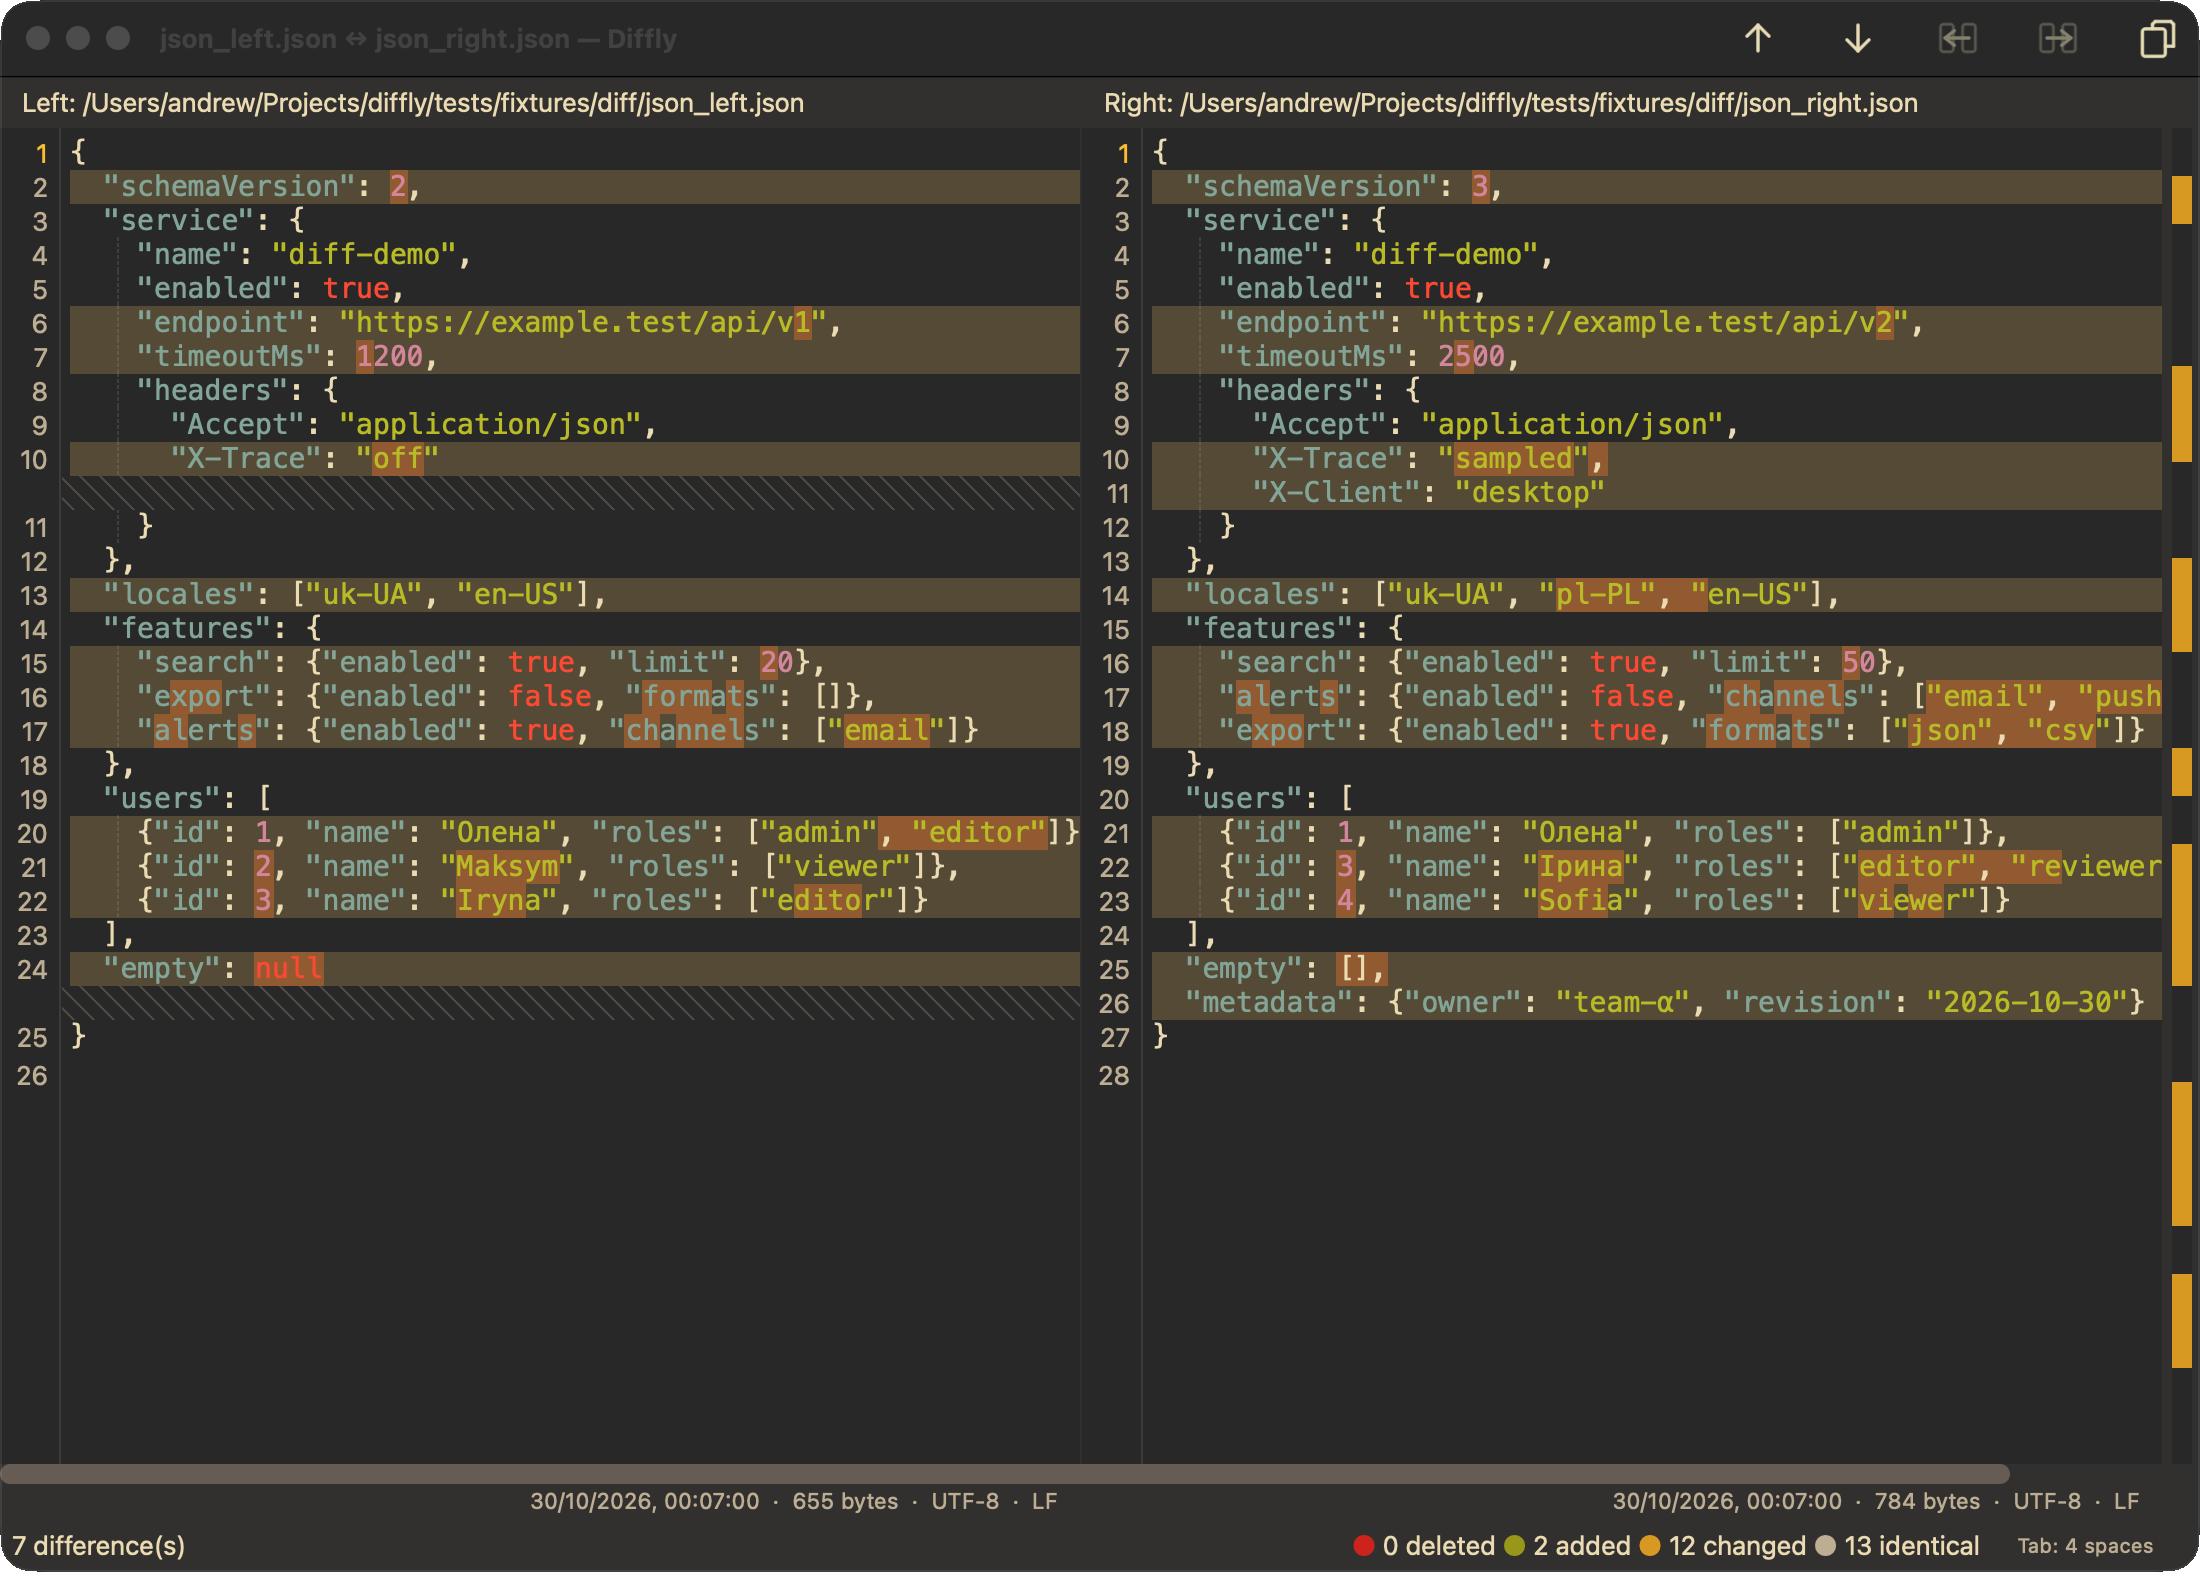
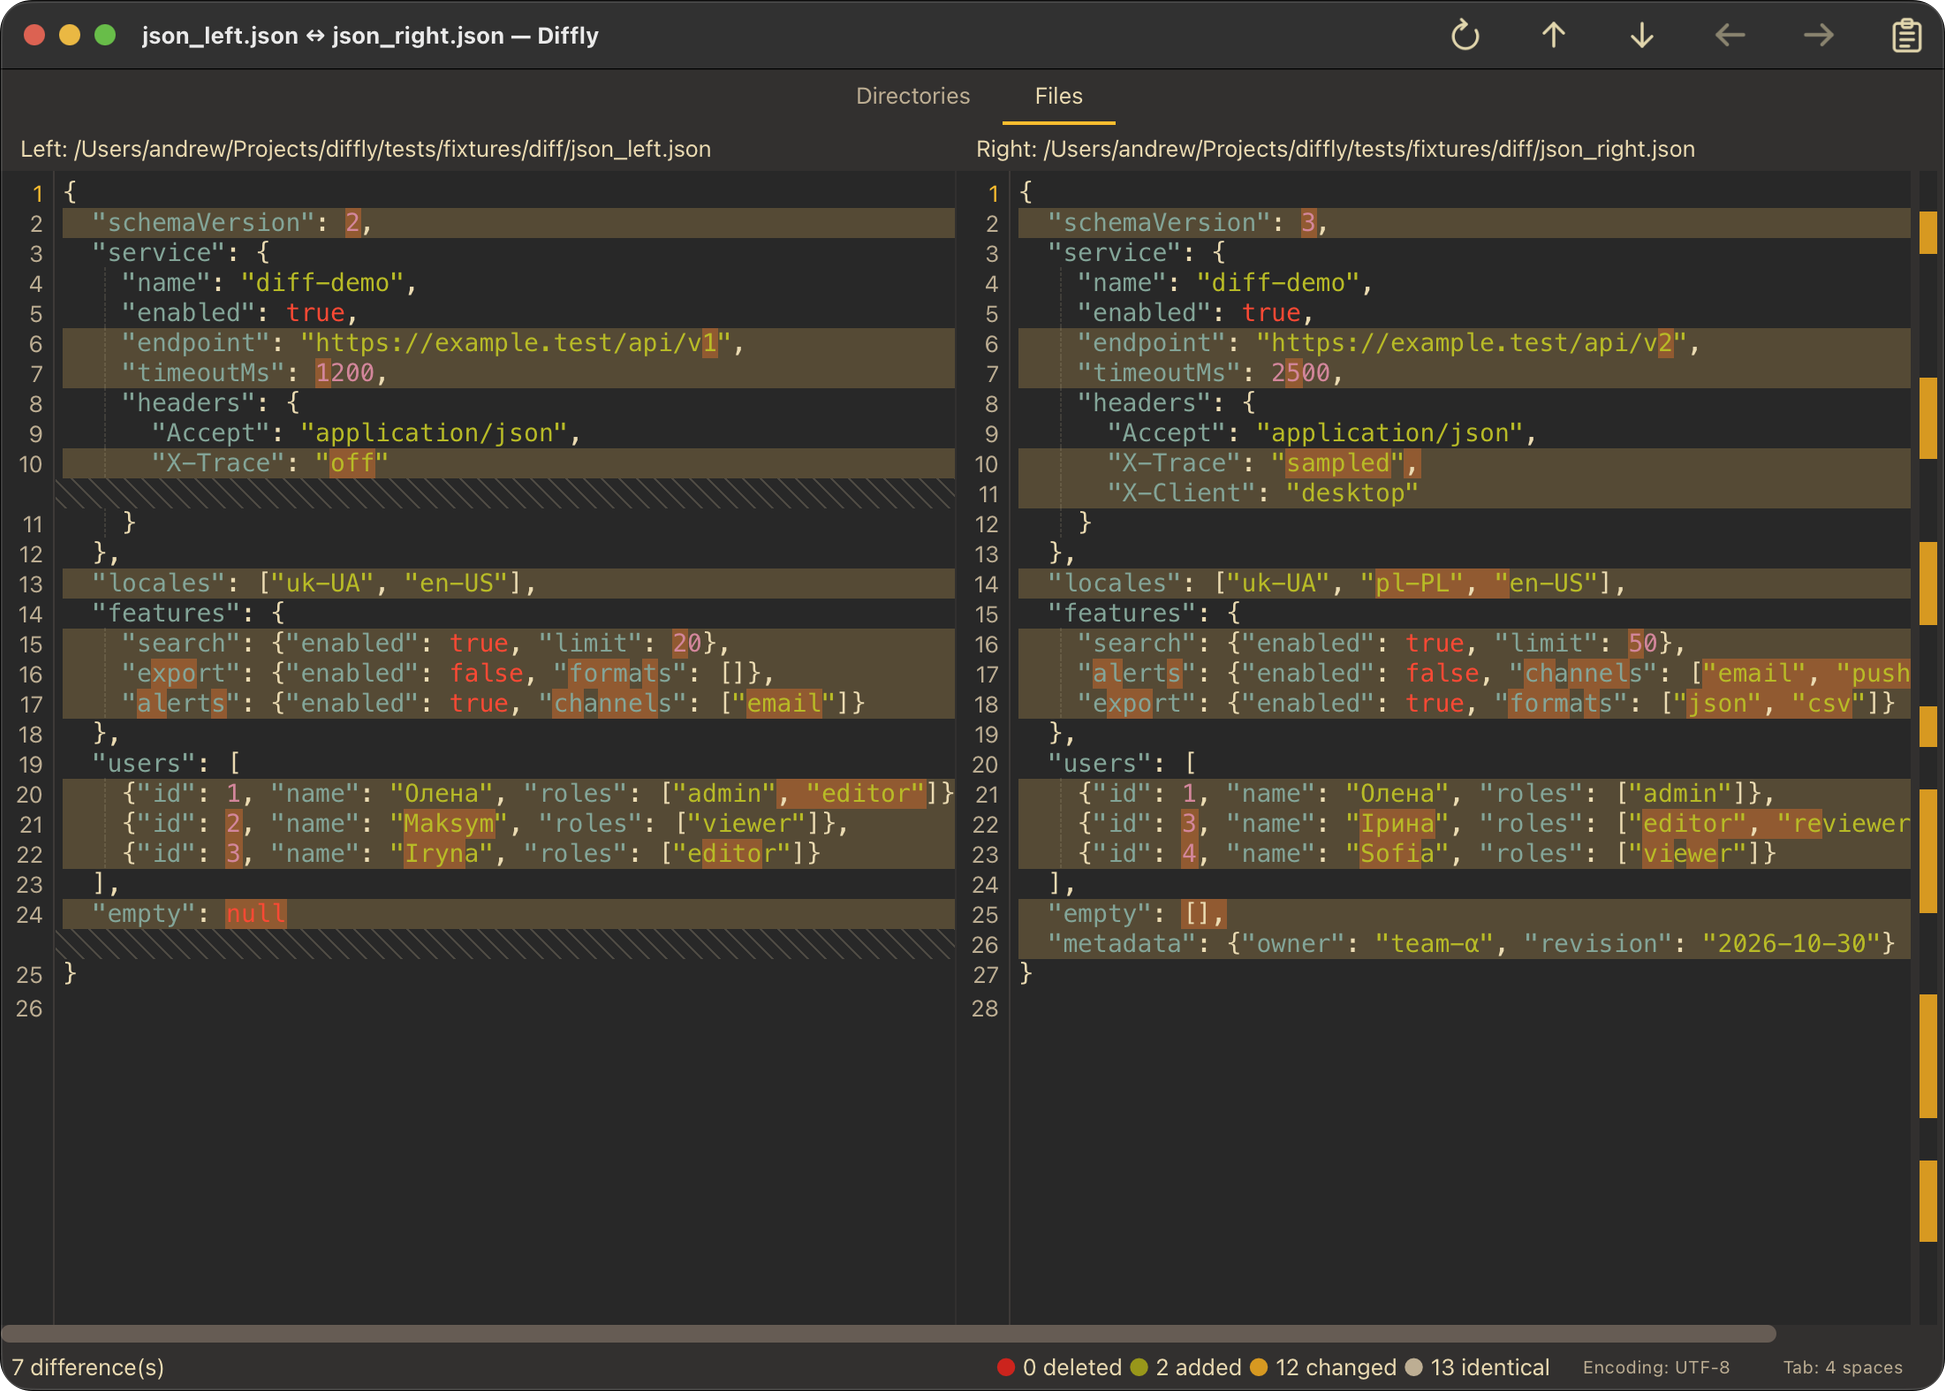
Update README screenshots for JSON and directory comparison

diff --git a/README.md b/README.md
@@ -1,8 +1,12 @@
 # Diffly
 
-<img src="docs/images/diffly-json.png" alt="Diffly comparing two JSON files" width="600">
+<a href="docs/images/diffly-json.png"><img src="docs/images/diffly-json.png" alt="Diffly comparing two JSON files" width="600"></a>
 
-Screenshot using the [JSON example files](tests/fixtures/diff/README.md).
+Comparing the [JSON example files](tests/fixtures/diff/README.md).
+
+<a href="docs/images/diffly-directories.png"><img src="docs/images/diffly-directories.png" alt="Diffly comparing two directories" width="600"></a>
+
+Comparing the [example directories](tests/fixtures/directories/README.md).
 
 Diffly is a two-pane text comparison and merge editor for macOS and Linux. This repository implements the Phase 1 MVP in [SPEC.md](SPEC.md).
 
